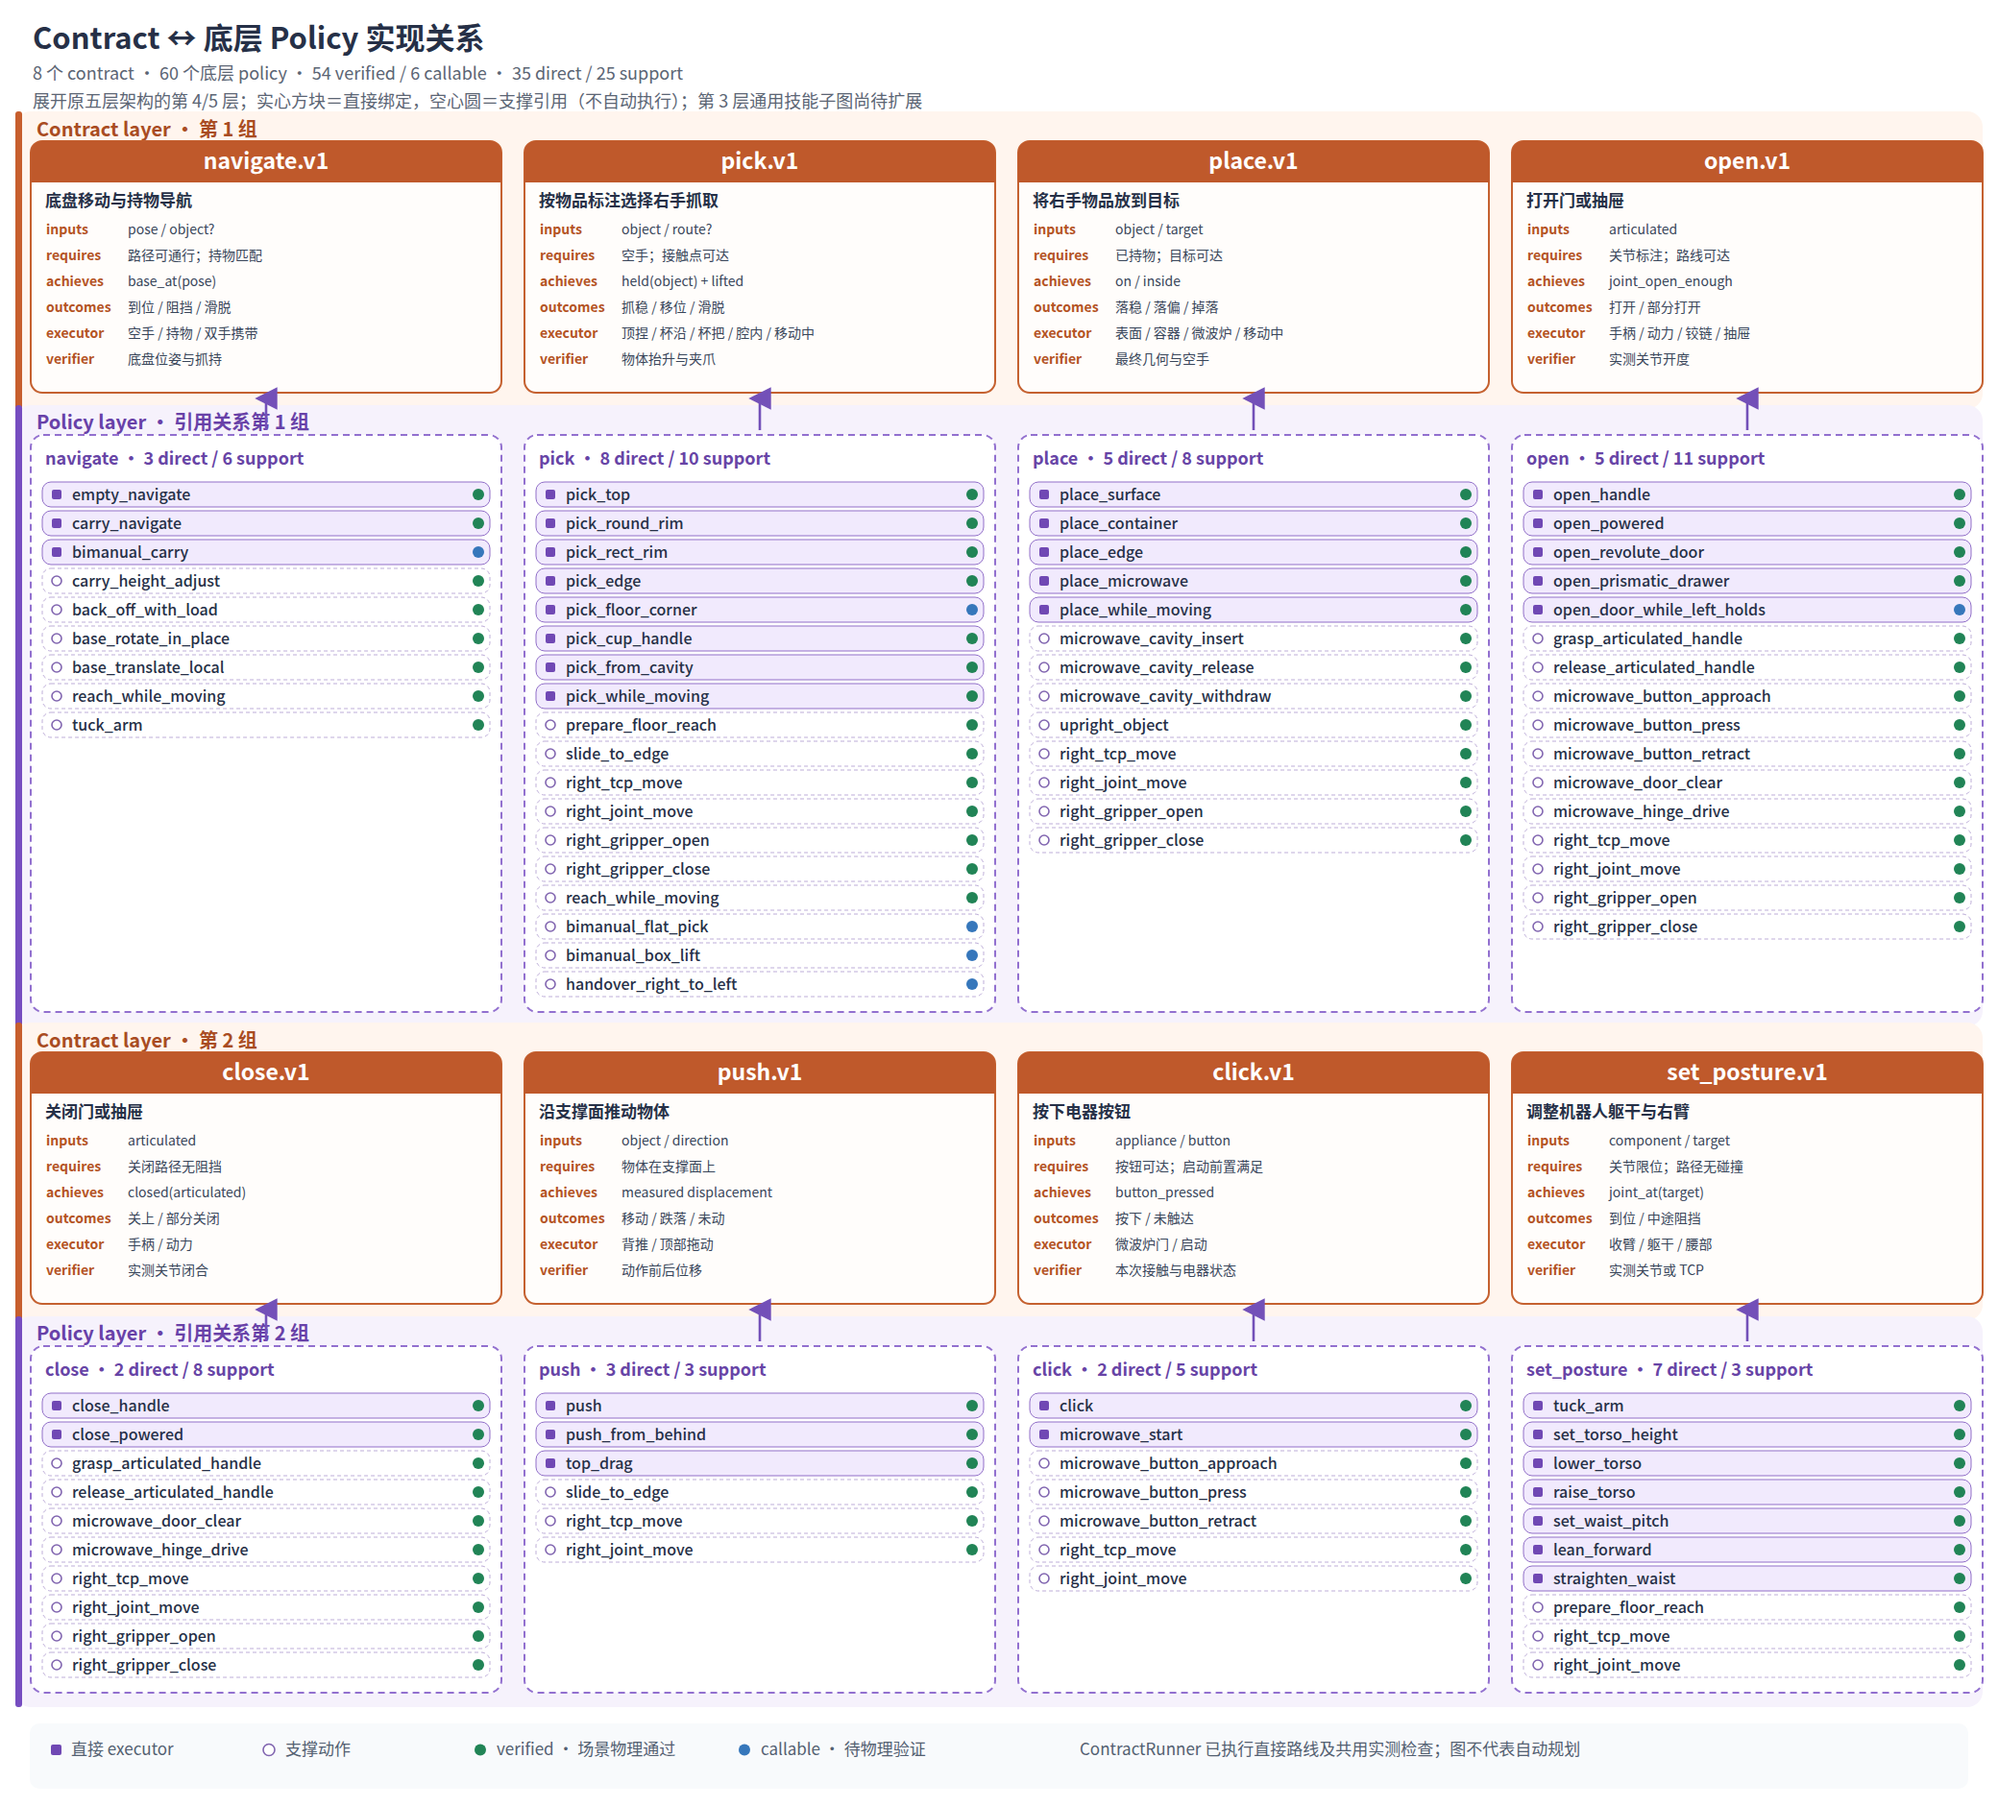
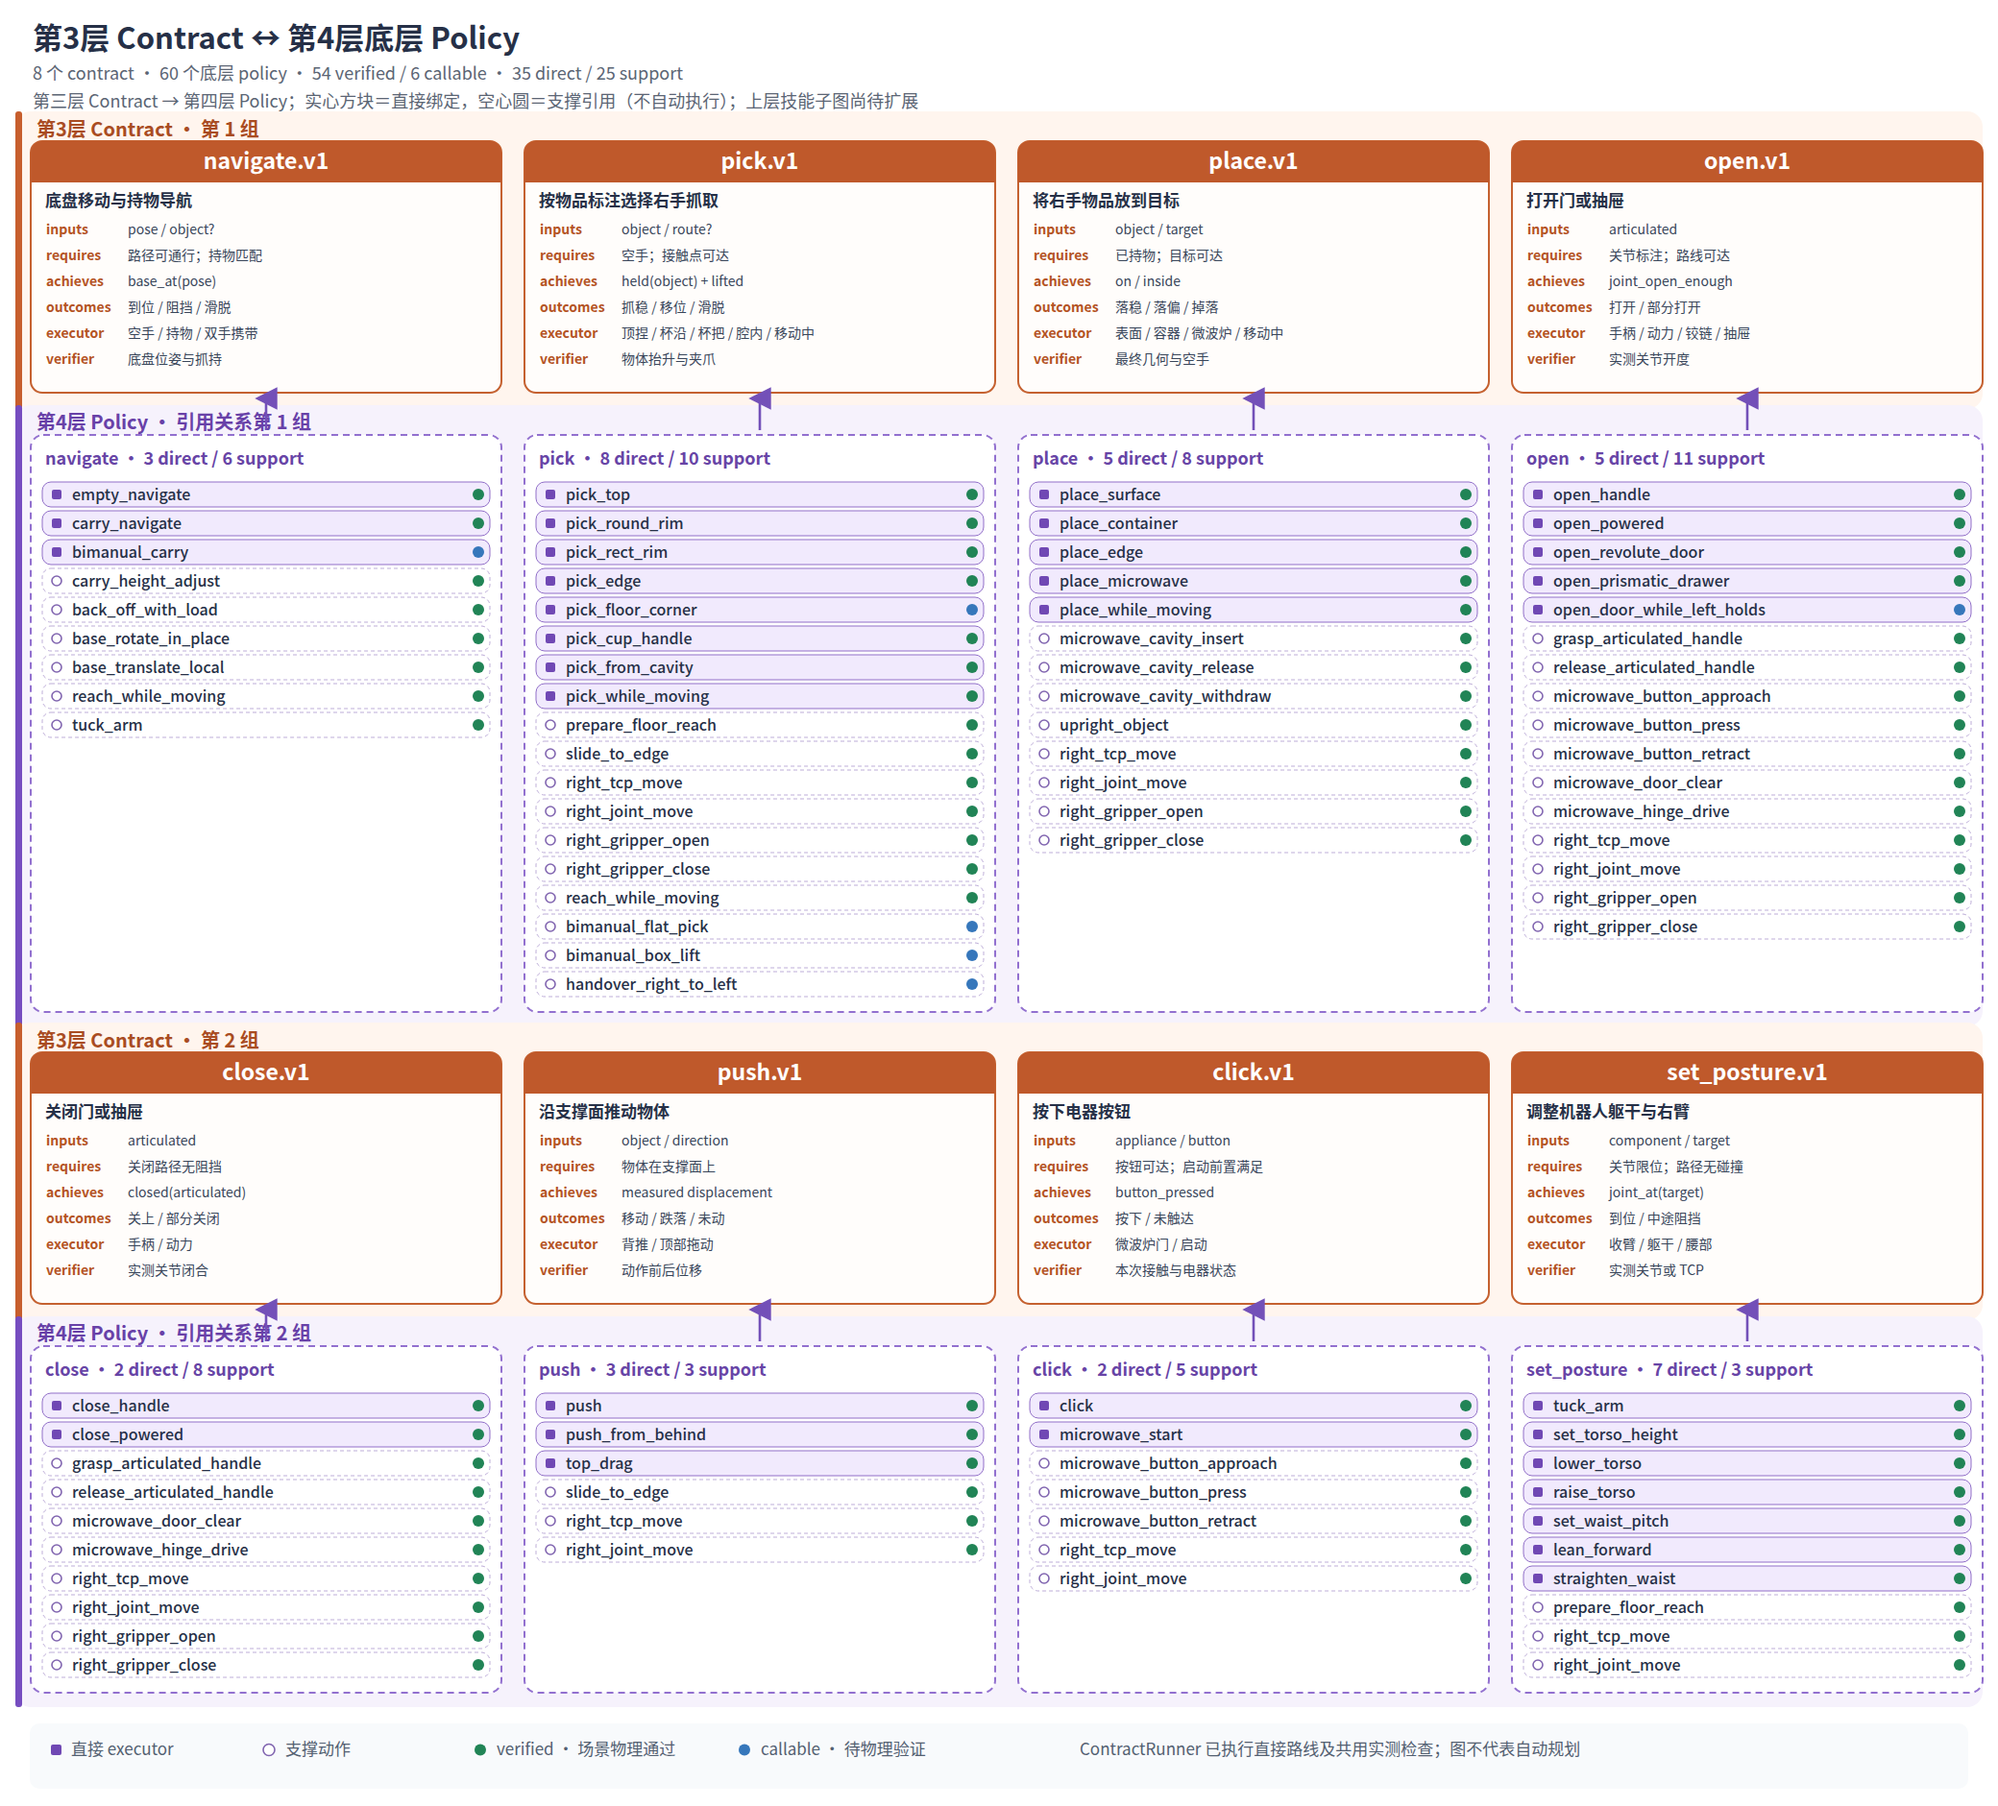
Correct contract and policy layer numbering

diff --git a/tools/render_contract_layers.py b/tools/render_contract_layers.py
@@ -90,21 +90,21 @@ def render(catalog):
     height = cursor + 76
     out = [f'<svg xmlns="http://www.w3.org/2000/svg" viewBox="0 0 {WIDTH} {height}" role="img" aria-labelledby="title desc">',
            tag("title", {"id": "title"}, "八个 contract 与六十个底层 policy 的实现关系"),
-           tag("desc", {"id": "desc"}, "图展开原五层架构中的第四层 contract 与第五层 policy。实心方块是 ContractSpec.executor 的直接类绑定；空心圆是不会自动执行的支撑动作引用。绿色点表示至少一个 Isaac Sim 场景已验证，蓝色点表示独立入口仍待物理验证。第三层通用技能子图规划器尚未实现。"),
+           tag("desc", {"id": "desc"}, "图展示第三层 Contract 与第四层底层 Policy。实心方块是 ContractSpec.executor 的直接类绑定；空心圆是不会自动执行的支撑动作引用。绿色点表示至少一个 Isaac Sim 场景已验证，蓝色点表示独立入口仍待物理验证。上层通用技能子图规划器尚未实现。"),
            '''<defs><marker id="arrow" viewBox="0 0 10 10" refX="5" refY="5" markerWidth="9" markerHeight="9" orient="auto"><path d="M0 10 L5 0 L10 10 Z" fill="#7350b8"/></marker></defs>''',
            '''<style>text{font-family:Inter,"Noto Sans CJK SC","Microsoft YaHei",Arial,sans-serif;fill:#263047}.title{font-size:31px;font-weight:750}.subtitle{font-size:18px;fill:#5b6574}.lane{font-size:20px;font-weight:750}.card-title{font-size:23px;font-weight:700;fill:#fff}.card-desc{font-size:17px;font-weight:650}.key{font-size:14px;font-weight:700;fill:#b45324}.value{font-size:14px;fill:#39465a}.panel-title{font-size:18px;font-weight:700;fill:#6744a6}.policy{font-size:16px;font-weight:550}.legend{font-size:17px;fill:#536071}</style>''',
            rect(0, 0, WIDTH, height, "#fff"),
-           text(34, 51, "Contract ↔ 底层 Policy 实现关系", "title"),
+           text(34, 51, "第3层 Contract ↔ 第4层底层 Policy", "title"),
            text(34, 83, f"8 个 contract · 60 个底层 policy · {counts['verified']} verified / {counts['callable']} callable · 35 direct / 25 support", "subtitle"),
-           text(34, 112, "展开原五层架构的第 4/5 层；实心方块＝直接绑定，空心圆＝支撑引用（不自动执行）；第 3 层通用技能子图尚待扩展", "subtitle")]
+           text(34, 112, "第三层 Contract → 第四层 Policy；实心方块＝直接绑定，空心圆＝支撑引用（不自动执行）；上层技能子图尚待扩展", "subtitle")]
     for row_index, (top, panel_h, group) in enumerate(layout):
         panel_top = top + CARD_H + POLICY_GAP
         out += [rect(16, top-31, WIDTH-32, CARD_H+48, "#fff5ee", radius=16),
                 rect(16, panel_top-31, WIDTH-32, panel_h+46, "#f6f2fc", radius=16),
                 rect(16, top-31, 7, CARD_H+48, "#c75e2d", radius=3),
                 rect(16, panel_top-31, 7, panel_h+46, "#764dc0", radius=3),
-                text(38, top-5, f"Contract layer · 第 {row_index+1} 组", "lane", style="fill:#a94c22"),
-                text(38, panel_top-6, f"Policy layer · 引用关系第 {row_index+1} 组", "lane", style="fill:#6841a8")]
+                text(38, top-5, f"第3层 Contract · 第 {row_index+1} 组", "lane", style="fill:#a94c22"),
+                text(38, panel_top-6, f"第4层 Policy · 引用关系第 {row_index+1} 组", "lane", style="fill:#6841a8")]
         for col, contract_id in enumerate(group):
             x = 32 + col * (COL_WIDTH + GAP)
             direct = relations[contract_id]["direct"]

diff --git a/docs/GT_POLICY.md b/docs/GT_POLICY.md
@@ -4,7 +4,7 @@ This document describes the code in this repository as of 2026-10-01. **GT polic
 
 `TaskPolicy` is the **task-level coordinator** that chooses and sequences atomic policies to satisfy goal predicates. Despite its Python name, it is the coordinator in the terminology used here. Task specs are benchmark instances, not separate atomic policies or trained models. These policies are annotation-driven scripted controllers with privileged state, not learned vision policies or optimal oracles.
 
-In the Goal → sub-goal → skill sub-graph → contract → policy diagram, a skill node invokes an atomic policy with concrete arguments. A contract states the required and expected state of that invocation. For example, `pick(book_red)` needs a reachable book and should leave that book held. The repository has eight `ContractSpec` entries and a `ContractRunner` that binds a requested route, invokes its policy and checks shared measured postconditions. It does not yet plan a skill sub-graph or select routes automatically. Function preconditions, `SkillFailure`/`Dropped`, post-action measurements, and goal re-evaluation provide the execution checks. A policy family can serve many target-specific contracts.
+In the current layer convention, **layer 3 is Contract and layer 4 is atomic Policy**. An upper-layer task or skill node chooses a contract and route; the contract states the required and expected state of the target-parameterized policy invocation. For example, `pick(book_red)` needs a reachable book and should leave that book held. The repository has eight `ContractSpec` entries and a `ContractRunner` that binds a requested route, invokes its policy and checks shared measured postconditions. It does not yet plan a skill sub-graph or select routes automatically. Function preconditions, `SkillFailure`/`Dropped`, post-action measurements, and goal re-evaluation provide the execution checks. A policy family can serve many target-specific contracts.
 
 ## Where each layer lives
 

diff --git a/README.md b/README.md
@@ -26,7 +26,7 @@ temperature uses a separate task-level model. Success is measured from simulator
 
 [GT policy 梳理](docs/GT_POLICY.md) 说明动作边界；[能力目录](docs/POLICY_CATALOG.md) 与[物理验证记录](docs/POLICY_VERIFICATION.md) 列出 60 项入口中已通过代表性场景的 54 项和仍待验证的 6 项。[Contract 提案](docs/CONTRACT_PROPOSAL.md) 记录八类接口、具体路线及验证要求。
 
-[关系图 PNG](docs/contract_layers_preview.png) 与 [SVG](docs/contract_layers.svg) 展示 8 个 contract 和 60 个 policy 的直接绑定与支撑引用。`ContractRunner` 能执行指定路线并检查共用实测结果；自动技能子图规划和失败后重规划留给上层扩展。
+[关系图 PNG](docs/contract_layers_preview.png) 与 [SVG](docs/contract_layers.svg) 展示第三层 8 个 Contract 和第四层 60 个底层 Policy 的直接绑定与支撑引用。`ContractRunner` 能执行指定路线并检查共用实测结果；自动技能子图规划和失败后重规划留给上层扩展。
 
 ---
 

diff --git a/docs/CONTRACT_PROPOSAL.md b/docs/CONTRACT_PROPOSAL.md
@@ -2,7 +2,7 @@
 
 八个 [ContractSpec](../zeno_skills/contracts.py) 定义语义接口与底层 policy 路由。[ContractRunner](../zeno_skills/contract_runtime.py) 现可按顺序执行指定路线，检查共用前置条件与动作后的实测状态，并留下成功或失败记录；[run_contracts.py](../tools/run_contracts.py) 接受 JSON 调用序列。`TaskPolicy` 仍负责已有任务目标的自动动作选择；技能子图规划器和自动路线选择尚未实现。新增目标谓词或物理机制需要研究者扩展评估器或控制器。
 
-## Contract 与 policy 的两层关系（8 × 60）
+## 第三层 Contract 与第四层底层 Policy（8 × 60）
 
 ![八个 contract 与六十个底层 policy 的分层引用关系图](contract_layers_preview.png)
 
